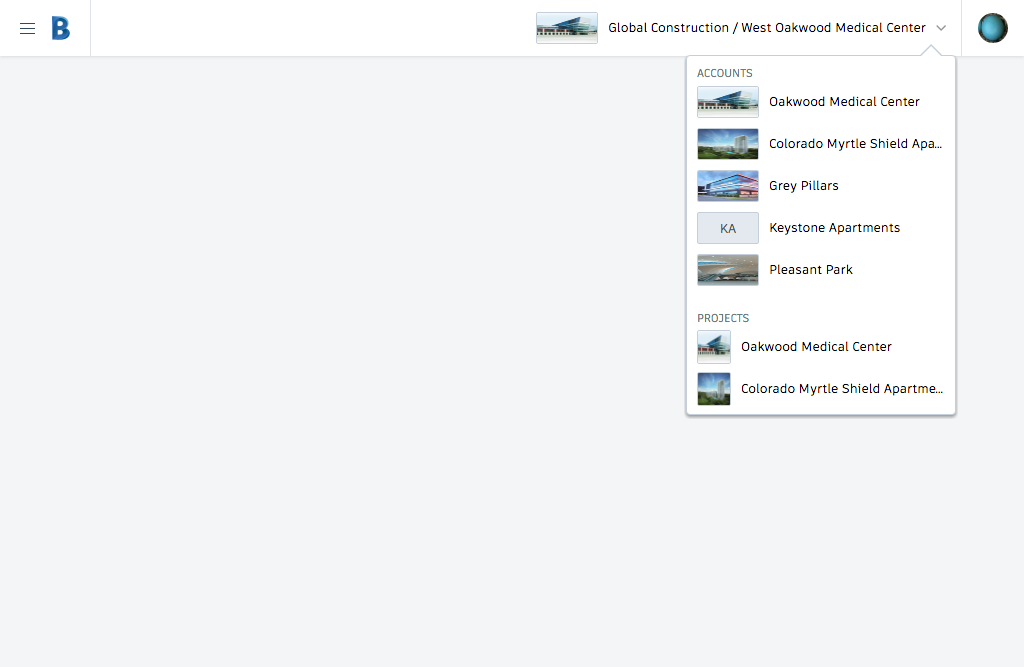
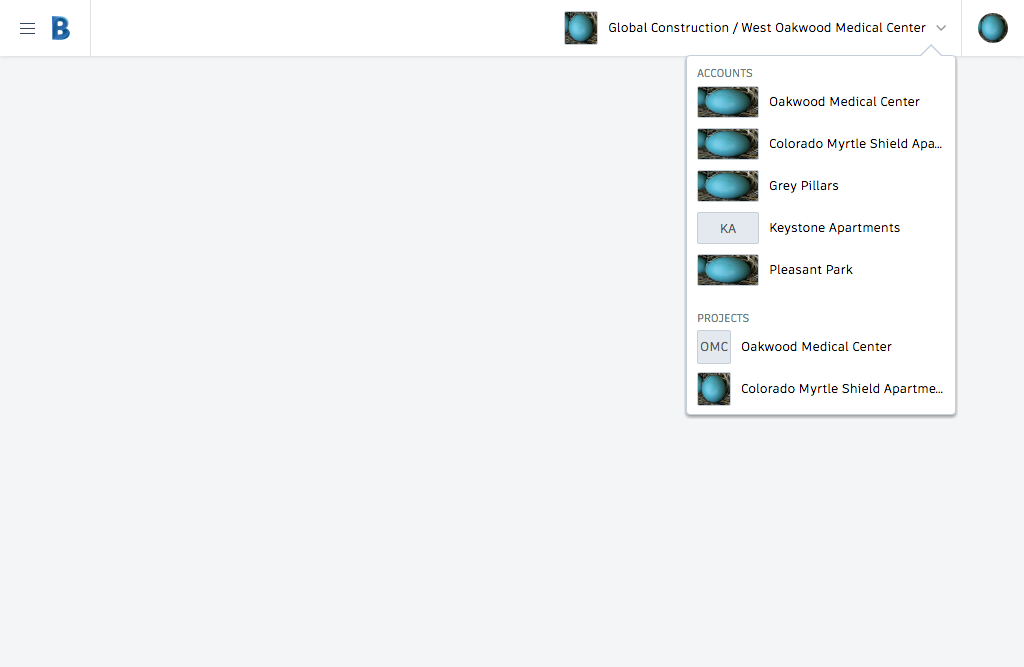
Maybe eggs wont break gemini

diff --git a/src/web/components/global-nav/top-nav/project-account-switcher/tests/gemini-project-account-switcher.html b/src/web/components/global-nav/top-nav/project-account-switcher/tests/gemini-project-account-switcher.html
@@ -36,19 +36,19 @@
             // CREATE PROJECT ACCOUNT SWITCHER
             var ProjectAccountSwitcher = new TopNav.partials.ProjectAccountSwitcher({
                 activeLabel: 'Global Construction / West Oakwood Medical Center',
-                activeImage: '../../../tests/project-1.png',
-                activeType: 'account'
+                activeImage: '../../../tests/egg.jpg',
+                activeType: 'project'
             });
 
             TopNav.addProjectAccountSwitcher(ProjectAccountSwitcher);
 
             // ADD PROJECTS
             var projectsData = [
-                { label: 'Oakwood Medical Center', image: '../../../tests/project-1.png' },
-                { label: 'Colorado Myrtle Shield Apartments', image: '../../../tests/project-2.png' },
-                { label: 'Grey Pillars', image: '../../../tests/project-3.png' },
+                { label: 'Oakwood Medical Center' },
+                { label: 'Colorado Myrtle Shield Apartments', image: '../../../tests/egg.jpg' },
+                { label: 'Grey Pillars', image: '../../../tests/egg.jpg' },
                 { label: 'Keystone Apartments' },
-                { label: 'Pleasant Park', image: '../../../tests/project-4.png' }
+                { label: 'Pleasant Park', image: '../../../tests/egg.jpg' }
             ];
             var projectComponents = projectsData.map((project) => {
                 return new ProjectAccountSwitcher.partials.Project(project);
@@ -59,11 +59,11 @@
 
             // ADD ACCOUNT
             var accountsData = [
-                { label: 'Oakwood Medical Center', image: '../../../tests/project-1.png' },
-                { label: 'Colorado Myrtle Shield Apartments', image: '../../../tests/project-2.png' },
-                { label: 'Grey Pillars', image: '../../../tests/project-3.png' },
+                { label: 'Oakwood Medical Center', image: '../../../tests/egg.jpg' },
+                { label: 'Colorado Myrtle Shield Apartments', image: '../../../tests/egg.jpg' },
+                { label: 'Grey Pillars', image: '../../../tests/egg.jpg' },
                 { label: 'Keystone Apartments' },
-                { label: 'Pleasant Park', image: '../../../tests/project-4.png' }
+                { label: 'Pleasant Park', image: '../../../tests/egg.jpg' }
             ];
             var accountComponents = accountsData.map((account) => {
                 return new ProjectAccountSwitcher.partials.Account(account);
